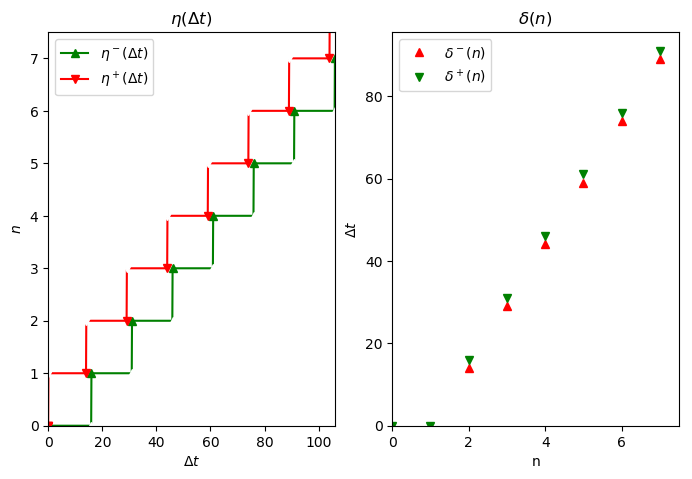
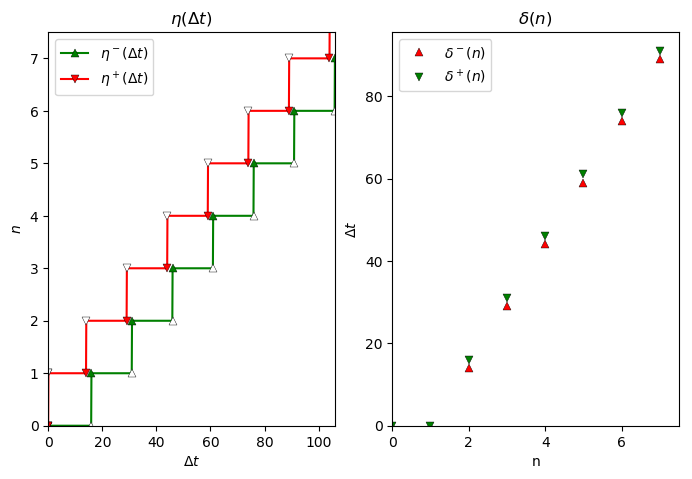
plot: fix markers

diff --git a/pycpa/plot.py b/pycpa/plot.py
@@ -27,6 +27,7 @@ try:
     from matplotlib import pyplot
     from matplotlib import patches
     from matplotlib.collections import PatchCollection
+    import matplotlib as mpl
 except ImportError:
     print ("matplotlib not available, plotting disabled")
 
@@ -98,17 +99,19 @@ def plot_event_model(model, num_events, file_format=None, separate_plots=True, f
         pyplot.subplot(121)
         pyplot.subplots_adjust(left=0.05, bottom=0.1, right=0.97, top=0.92, wspace=None, hspace=None)
 
+    mpl.rcParams['lines.markeredgewidth'] = 0.3
+
     #eta minus first (so it appears below in case of overlaps)
-    pyplot.plot([0], [0], 'g-^', label="$\eta^-(\Delta t)$") #only one point for label + legend (with line and marker)
+    pyplot.plot([0], [0], 'g-^', label="$\eta^-(\Delta t)$", markeredgecolor='k') #only one point for label + legend (with line and marker)
     pyplot.plot(augmented_range, [model.eta_min(x) for x in augmented_range], 'g-') # line only
-    pyplot.plot(steps_eta_min, [model.eta_min(x) for x in steps_eta_min], 'g^') # inclusive markers
-    pyplot.plot(steps_eta_min, [model.eta_min(x - eps) for x in steps_eta_min], 'w^') # exclusive markers
+    pyplot.plot(steps_eta_min, [model.eta_min(x) for x in steps_eta_min], 'g^', markeredgecolor='k') # inclusive markers
+    pyplot.plot(steps_eta_min, [model.eta_min(x - eps) for x in steps_eta_min], 'w^', markeredgecolor='k') # exclusive markers
 
     #now eta plus on top
-    pyplot.plot([0], [0], 'r-v', label="$\eta^+(\Delta t)$") #only one point for label + legend (with line and marker)
+    pyplot.plot([0], [0], 'r-v', label="$\eta^+(\Delta t)$", markeredgecolor='k') #only one point for label + legend (with line and marker)
     pyplot.plot(augmented_range, [model.eta_plus(x) for x in augmented_range], 'r-') # line only
-    pyplot.plot(steps_eta_plus, [model.eta_plus(x) for x in steps_eta_plus], 'rv') # inclusive markers
-    pyplot.plot(steps_eta_plus, [model.eta_plus(x + eps) for x in steps_eta_plus], 'wv') # exclusive markers
+    pyplot.plot(steps_eta_plus, [model.eta_plus(x) for x in steps_eta_plus], 'rv', markeredgecolor='k') # inclusive markers
+    pyplot.plot(steps_eta_plus, [model.eta_plus(x + eps) for x in steps_eta_plus], 'wv', markeredgecolor='k') # exclusive markers
 
     pyplot.xlim(xmin=0, xmax=max_delta_t)
     pyplot.ylim(ymin=0, ymax=num_events + .5)
@@ -131,13 +134,13 @@ def plot_event_model(model, num_events, file_format=None, separate_plots=True, f
     range_delta = range(num_events + 1)
 
     # plot delta_min first so it appears below when overlapping
-    pyplot.plot(range_delta, [model.delta_min(x) for x in range_delta], 'r^',
+    pyplot.plot(range_delta, [model.delta_min(x) for x in range_delta], 'r^', markeredgecolor='k',
                 label="$\delta^-(n)$")
 
     # plot delta_plus on top
     if model.delta_plus(2) < float('inf'):
         # only plot delta+ if it is not infinity
-        pyplot.plot(range_delta, [model.delta_plus(x) for x in range_delta], 'gv',
+        pyplot.plot(range_delta, [model.delta_plus(x) for x in range_delta], 'gv', markeredgecolor='k',
                     label="$\delta^+(n)$")
 
     pyplot.xlim(xmin=0, xmax=num_events + .5)
